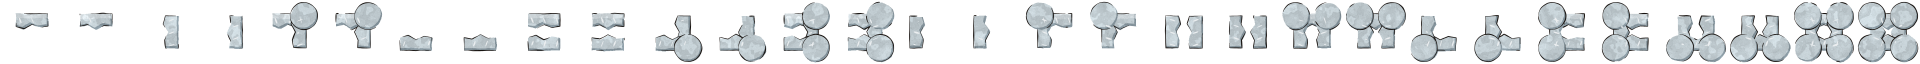
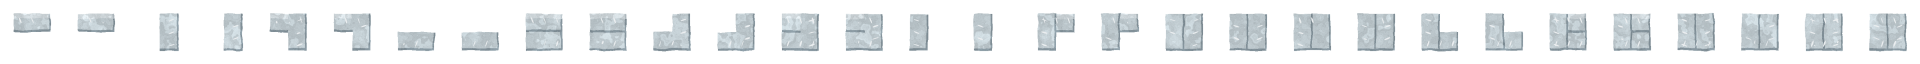
fix(sky): frost as one crust along the hull, proud of the edge
The sheet holds only the rime's paint; the shader cuts its scalloped
inner edge along the whole hull, stands it proud of the wall, rounds
the outer corners, fills the inner ones and inks its edges, as the pick.

Changed region(s): [[0.0, 0.0312, 1.0, 0.9688], [0.0, 0.2812, 0.0938, 0.5625], [0.2812, 0.1875, 0.3438, 0.25]]

diff --git a/tools/anime-art/subjects/stretches.js b/tools/anime-art/subjects/stretches.js
@@ -184,12 +184,11 @@ function cassette(a) {
 }
 
 // ---------- frost on the hull: a tile a wall cell, by the sides of it facing space ----------
-// The sheet: FROST_SLOTS tiles of 8 px in slots FROST_SLOT wide, 4 px clear round each for the corners drawn past it; slot 2 × (open − 1) + parity, the parity (x + y) % 2
-// of the cell, so the scallops along any edge alternate. The game reads it as FrostView does: keep both in step.
-const FROST_SLOT = 16, FROST_CLEAR = 4, FROST_SLOTS = 30;
+// The sheet: FROST_SLOTS tiles of 8 px in slots FROST_SLOT wide, 4 px clear round each; slot 2 × (open − 1) + parity, the parity (x + y) % 2
+// of the cell, so the needles along any edge alternate. Only the rime's paint, deeper than it ever reaches and with no line: FrostView
+// cuts its scalloped inner edge and inks it along the whole hull, so no cell shows a seam. The game reads it as FrostView does: keep both in step.
+const FROST_SLOT = 16, FROST_CLEAR = 4, FROST_SLOTS = 30, FROST_PAINTED = 4;
 const UP = 1, RIGHT = 2, DOWN = 4, LEFT = 8;
-// The band's inner edge, how deep at every 2 px along a side: its ends alike so tiles meet, its middle each parity's own.
-const SCALLOPS = [[2.6, 3.2, 2.1, 2.9, 2.6], [2.6, 2.2, 3.4, 2.4, 2.6]];
 /** A point at s along side `side` of the cell, d in from its edge. */
 const sideAt = (side, s, d) => (side === UP ? [s, d] : side === RIGHT ? [8 - d, s] : side === DOWN ? [s, 8 - d] : [d, s]);
 
@@ -198,17 +197,10 @@ function frostTile(a, ox, oy, open, parity) {
   const { band } = window.DebrisKit;
   for (const side of [UP, RIGHT, DOWN, LEFT]) {
     if (!(open & side)) continue;
-    const out = [], inn = [];
-    for (let k = 0; k <= 4; k++) {
-      const s = Math.min(8.01, Math.max(-0.01, k * 2));
-      out.push(...at(side, s, -0.6));
-      inn.unshift(...at(side, s, SCALLOPS[parity][k]));
-    }
-    a.shape(P(out.concat(inn)), RIME, { outer: false, shade: 0.7, lite: side === UP ? band(ox - 1, oy - 1, ox + 9, oy + 0.6) : undefined });
+    const ends = [-0.6, 8.6].map((s) => [at(side, s, -0.6), at(side, s, FROST_PAINTED)]);
+    a.shape(P([...ends[0][0], ...ends[1][0], ...ends[1][1], ...ends[0][1]]), RIME,
+      { outer: false, edge: false, shade: 0.7, lite: side === UP ? band(ox - 1, oy - 1, ox + 9, oy + 0.6) : undefined });
   }
-  // The outer corners frost first and thickest.
-  for (const [s1, s2, cx, cy] of [[UP, RIGHT, 8, 0], [RIGHT, DOWN, 8, 8], [DOWN, LEFT, 0, 8], [LEFT, UP, 0, 0]])
-    if ((open & s1) && (open & s2)) a.shape(ell(ox + cx, oy + cy, 3.4, 3.4), RIME, { outer: false, shade: 0.6 });
   // Needles of rime from the edge in.
   for (const side of [UP, RIGHT, DOWN, LEFT]) {
     if (!(open & side)) continue;

diff --git a/game/features/sky/FrostView.cs b/game/features/sky/FrostView.cs
@@ -19,6 +19,8 @@ public partial class FrostView : Node2D
     private const int Cell = ShipCamera.Cell;
     /// <summary>The sheet's tiles (tools/anime-art/subjects/stretches.js): slots this wide, a tile this far in, this many of them.</summary>
     private const int Slot = 16, Clear = 4, Slots = 30;
+    /// <summary>How far a cell's quad reaches past it, in pixels of the world: room for the rime standing proud of the wall.</summary>
+    private const float Margin = 2;
 
     private static readonly string Declarations = System.FormattableString.Invariant($$"""
 
@@ -37,10 +39,60 @@ public partial class FrostView : Node2D
             return fract(sin(n * 12.9898) * 43758.5453);
         }
 
-        // Whether a point `depth` in from an edge is under a band whose turn came at `delay`: softened over a third of a pixel.
-        float frost_band(float depth, float delay) {
-            float reach = {{Frost.Deepest:0.0###}} * frost_amount(delay);
-            return reach <= 0.0 ? 0.0 : 1.0 - smoothstep(reach - 0.3, reach, depth);
+        // Between least and most at `along` on the hull, a point each few pixels: the same in every cell it crosses, so an edge runs on unbroken.
+        float frost_scallop(float along, float seed, float least, float most) {
+            float k = along / {{Frost.Scallop:0.0###}};
+            return mix(least, most, mix(frost_hash(floor(k) + seed), frost_hash(floor(k) + 1.0 + seed), fract(k)));
+        }
+
+        // How far in from side i (up, right, down, left) a point of its cell lies; and where along the hull that side's band is.
+        float frost_depth(vec2 local, int i) {
+            return i == 0 ? local.y : (i == 1 ? {{Cell}}.0 - local.x : (i == 2 ? {{Cell}}.0 - local.y : local.x));
+        }
+
+        float frost_along(vec2 spot, int i) {
+            return (i == 0 || i == 2) ? spot.x : spot.y;
+        }
+
+        // How much of side i's band is there at `along`: each scallop a little apart in its turn, as the pick's mask; all of it when whole.
+        float frost_part(float along, int i, float delay, bool whole) {
+            return whole ? 1.0 : frost_amount(delay + 0.04 * frost_hash(floor(along / {{Frost.Scallop:0.0###}}) + float(i) * 101.0));
+        }
+
+        // How far inside the rime's edge a point of a cell lies, negative outside: its bands from the open sides, standing proud of
+        // them; its outer corners rounded; its inner corners filled where the bands of the two walls turn.
+        float frost_inside(vec2 local, vec2 spot, int sides, int hollows, float delay, bool whole) {
+            float inside = -9.0;
+            bool in_cell = all(greaterThanEqual(local, vec2(0.0))) && all(lessThanEqual(local, vec2({{Cell}}.0)));
+            for (int i = 0; i < 4; i++) {
+                if ((sides & (1 << i)) == 0) continue;
+                float depth = frost_depth(local, i), across = (i == 0 || i == 2) ? local.x : local.y;
+                if (across < 0.0 || across > {{Cell}}.0 || depth > {{Cell}}.0) continue;
+                float along = frost_along(spot, i), part = frost_part(along, i, delay, whole);
+                if (part <= 0.0) continue;
+                float reach = frost_scallop(along, float(i) * 101.0, {{Frost.Shallowest:0.0###}}, {{Frost.Deepest:0.0###}});
+                float proud = frost_scallop(along, float(i) * 101.0 + 53.0, {{Frost.ProudLeast:0.0###}}, {{Frost.ProudMost:0.0###}});
+                inside = max(inside, min(reach * part - depth, proud * part + depth));
+            }
+            float corner_amount = whole ? 1.0 : frost_amount(delay);
+            for (int i = 0; i < 4; i++) {
+                int j = (i + 1) % 4, pair = (1 << i) | (1 << j);
+                vec2 corner = i == 0 ? vec2({{Cell}}.0, 0.0) : (i == 1 ? vec2({{Cell}}.0) : (i == 2 ? vec2(0.0, {{Cell}}.0) : vec2(0.0)));
+                if ((sides & pair) == pair && corner_amount > 0.0) {
+                    float away = distance(local, corner);
+                    // The outer corners first and thickest; past both edges, the crust rounded round them.
+                    if (in_cell) inside = max(inside, {{Frost.Corner:0.0###}} * corner_amount - away);
+                    else if (frost_depth(local, i) < 0.0 && frost_depth(local, j) < 0.0)
+                        inside = max(inside, {{(Frost.ProudLeast + Frost.ProudMost) / 2:0.0###}} * corner_amount - away);
+                }
+                if ((hollows & (1 << i)) != 0 && in_cell) {
+                    float a = frost_along(spot, i), b = frost_along(spot, j);
+                    float ra = frost_scallop(a, float(i) * 101.0, {{Frost.Shallowest:0.0###}}, {{Frost.Deepest:0.0###}}) * frost_part(a, i, delay, whole);
+                    float rb = frost_scallop(b, float(j) * 101.0, {{Frost.Shallowest:0.0###}}, {{Frost.Deepest:0.0###}}) * frost_part(b, j, delay, whole);
+                    if (ra > 0.0 && rb > 0.0) inside = max(inside, min(ra - frost_depth(local, i), rb - frost_depth(local, j)));
+                }
+            }
+            return inside;
         }
         """);
 
@@ -52,35 +104,32 @@ public partial class FrostView : Node2D
         }
         """;
 
-    // A quad's UV carries its cell: x its corner's 0 or 1 and twice its sides open, y its corner's and twice its turn in hundredths.
+    // A quad's UV carries its cell: x four times its sides and inner corners, plus one and its corner's share of the cell; y the same
+    // with its turn in hundredths. A quad reaches Margin past its cell, so a share runs a little under 0 and over 1.
     private static readonly string Paint = System.FormattableString.Invariant($$"""
             {
-                float sides_at = floor(UV.x * 0.5), turn_at = floor(UV.y * 0.5);
-                int sides = int(sides_at);
+                float code_at = floor(UV.x * 0.25), turn_at = floor(UV.y * 0.25);
+                int code = int(code_at), sides = code & 15, hollows = code >> {{Frost.HollowShift}};
                 float delay = turn_at / 100.0;
-                vec2 local = vec2(UV.x - sides_at * 2.0, UV.y - turn_at * 2.0) * {{Cell}}.0;
+                vec2 local = vec2(UV.x - code_at * 4.0 - 1.0, UV.y - turn_at * 4.0 - 1.0) * {{Cell}}.0;
                 vec2 frost_cell = floor((world - local) / {{Cell}}.0 + 0.5);
-                int slot = 2 * (sides - 1) + int(mod(frost_cell.x + frost_cell.y, 2.0));
-                vec4 rime = texture(TEXTURE, vec2((float(slot) * {{Slot}}.0 + {{Clear}}.0 + local.x) / {{Slot * Slots}}.0, ({{Clear}}.0 + local.y) / {{Slot}}.0));
-                float shown = 0.0;
-                for (int i = 0; i < 4; i++) {
-                    if ((sides & (1 << i)) == 0) continue;
-                    float depth = i == 0 ? local.y : (i == 1 ? {{Cell}}.0 - local.x : (i == 2 ? {{Cell}}.0 - local.y : local.x));
-                    float along = (i == 0 || i == 2) ? world.x : world.y;
-                    // Each four pixels along the hull a little apart in its turn, as the pick's mask.
-                    shown = max(shown, frost_band(depth, delay + 0.04 * frost_hash(floor(along / 4.0) + float(i) * 101.0)));
-                }
-                // Its outer corners first and thickest.
-                for (int i = 0; i < 4; i++) {
-                    int pair = (1 << i) | (1 << ((i + 1) % 4));
-                    if ((sides & pair) != pair) continue;
-                    vec2 corner = i == 0 ? vec2({{Cell}}.0, 0.0) : (i == 1 ? vec2({{Cell}}.0) : (i == 2 ? vec2(0.0, {{Cell}}.0) : vec2(0.0)));
-                    shown = max(shown, frost_band(distance(local, corner), delay));
-                }
-                // Where it has melted, the hull wet a while; where it shows, darkening as it melts.
-                vec3 thawed = mix(rime.rgb, vec3(40.0, 62.0, 80.0) / 255.0, 0.35 * frost_dark);
+                // The sheet holds only the rime's paint, read inside the cell: an inner corner's is its two walls' tile.
+                int painted = sides;
+                for (int i = 0; i < 4; i++)
+                    if ((hollows & (1 << i)) != 0) painted |= (1 << i) | (1 << ((i + 1) % 4));
+                int slot = 2 * (painted - 1) + int(mod(frost_cell.x + frost_cell.y, 2.0));
+                vec2 at = clamp(local, vec2(0.0), vec2({{Cell}}.0));
+                vec4 rime = texture(TEXTURE, vec2((float(slot) * {{Slot}}.0 + {{Clear}}.0 + at.x) / {{Slot * Slots}}.0, ({{Clear}}.0 + at.y) / {{Slot}}.0));
+                float shown = 0.0, inside = frost_inside(local, world, sides, hollows, delay, false);
+                if (inside > -0.12) shown = smoothstep(-0.12, 0.08, inside);
+                // Its edges inked all round, as a pen would.
+                float inked = 1.0 - smoothstep(0.22, 0.4, inside);
+                // Where it has melted, the hull wet a while where the rime lay, on the wall only; where it shows, darkening as it melts.
+                vec3 thawed = mix(mix(rime.rgb, vec3(40.0, 62.0, 80.0) / 255.0, 0.35 * frost_dark), vec3(26.0, 38.0, 48.0) / 255.0, 0.8 * inked);
+                float lay = 0.0;
+                if (frost_wet > 0.0 && local == at) lay = smoothstep(-0.12, 0.08, frost_inside(local, world, sides, hollows, delay, true));
                 vec4 wet = vec4(10.0, 16.0, 24.0, 255.0) / 255.0;
-                COLOR = frost_tint * mix(vec4(wet.rgb, rime.a * frost_wet), vec4(thawed, rime.a), shown);
+                COLOR = frost_tint * mix(vec4(wet.rgb, frost_wet * lay), vec4(thawed, 1.0), shown);
             }
         """);
 
@@ -151,7 +200,7 @@ public partial class FrostView : Node2D
             if ((change.Layers & (GridLayers.Structure | GridLayers.Back)) != 0) _hull.Changed(change.Cell);
     }
 
-    /// <summary>The mesh made again from the hull's cells: a quad a cell, its turn and sides in its UV (see <see cref="Paint"/>).</summary>
+    /// <summary>The mesh made again from the hull's cells: a quad a cell reaching a little past it, its turn, sides and inner corners in its UV (see <see cref="Paint"/>).</summary>
     private static readonly int[] Quad = [0, 1, 2, 0, 2, 3];
 
     private void Build()
@@ -165,12 +214,13 @@ public partial class FrostView : Node2D
         foreach (var (cell, sides) in _hull.Sides)
         {
             int x = cell % _grid.Width, y = cell / _grid.Width;
-            float u = 2 * sides, v = 2 * Mathf.Round(delays[cell] * 100);
+            float u = 4 * sides + 1, v = 4 * Mathf.Round(delays[cell] * 100) + 1;
             for (int k = 0; k < 4; k++)
             {
                 int cx = k is 1 or 2 ? 1 : 0, cy = k >= 2 ? 1 : 0;
-                vertices[i * 4 + k] = new Vector2((x + cx) * Cell, (y + cy) * Cell);
-                uvs[i * 4 + k] = new Vector2(u + cx, v + cy);
+                float px = cx == 1 ? Margin : -Margin, py = cy == 1 ? Margin : -Margin;
+                vertices[i * 4 + k] = new Vector2((x + cx) * Cell + px, (y + cy) * Cell + py);
+                uvs[i * 4 + k] = new Vector2(u + cx + px / Cell, v + cy + py / Cell);
             }
             for (int k = 0; k < 6; k++) indices[i * 6 + k] = i * 4 + Quad[k];
             i++;

diff --git a/game/features/sky/logic/Frost.cs b/game/features/sky/logic/Frost.cs
@@ -20,8 +20,17 @@ public static class Frost
     /// <summary>How much later a cell's turn comes for each cell along the hull from a corner or cold spot.</summary>
     public const float PerCell = 0.05f;
 
-    /// <summary>How deep the band reaches into its cell at its full, in pixels of the world: past the deepest scallop drawn.</summary>
-    public const float Deepest = 3.8f;
+    /// <summary>
+    /// How deep the band reaches into its cell at its full, in pixels of the world: its inner edge scalloped between these, a point
+    /// each <see cref="Scallop"/> pixels along the hull, as the pick's; an outer corner's disc this wide.
+    /// </summary>
+    public const float Shallowest = 2.0f, Deepest = 3.4f, Scallop = 4, Corner = 3.4f;
+
+    /// <summary>How far the rime stands proud of the wall's edge, out into space, scalloped between these as its inner edge is: a crust, not a stain.</summary>
+    public const float ProudLeast = 0.5f, ProudMost = 1.4f;
+
+    /// <summary>Where a hull cell's inner corners (<see cref="HollowsOf"/>) sit above its sides in what <see cref="HullCells"/> keeps.</summary>
+    public const int HollowShift = 4;
 
     /// <summary>One cell in about this many is a cold spot frost takes early, its turn <see cref="ColdFrom"/> and a little more.</summary>
     public const int ColdEvery = 29;
@@ -42,6 +51,26 @@ public static class Frost
         if (y == height - 1 || space(cell + width)) sides |= Down;
         if (x == 0 || space(cell - 1)) sides |= Left;
         return sides;
+    }
+
+    /// <summary>
+    /// The inner corners of the wall cell (<paramref name="x"/>, <paramref name="y"/>): each where its two sides are walled but the cell
+    /// between them, diagonal, is space, so the bands along both walls turn there. A bit each, from 0 at the top right clockwise, as a
+    /// pair of sides counts them in the shader: up and right, right and down, down and left, left and up.
+    /// </summary>
+    public static int HollowsOf(int x, int y, int width, int height, Func<int, bool> wall, Func<int, bool> space)
+    {
+        int cell = y * width + x;
+        if (!wall(cell) || x == 0 || y == 0 || x == width - 1 || y == height - 1) return 0;
+        bool Walled(int at) => !space(at);
+        int hollows = 0;
+        (int Dx, int Dy)[] corners = [(1, -1), (1, 1), (-1, 1), (-1, -1)];
+        for (int i = 0; i < 4; i++)
+        {
+            var (dx, dy) = corners[i];
+            if (Walled(cell + dx) && Walled(cell + dy * width) && space(cell + dy * width + dx)) hollows |= 1 << i;
+        }
+        return hollows;
     }
 
     /// <summary>Whether <paramref name="sides"/> meet at an outer corner: two that turn round it.</summary>

diff --git a/game/features/sky/logic/HullCells.cs b/game/features/sky/logic/HullCells.cs
@@ -11,7 +11,7 @@ public sealed class HullCells(int width, int height, Func<int, bool> wall, Func<
 {
     private readonly Dictionary<int, int> _sides = new();
 
-    /// <summary>Each wall cell facing space, by its sides facing it.</summary>
+    /// <summary>Each wall cell facing space or turning an inner corner, by its sides facing it and its inner corners above them (<see cref="Frost.HollowShift"/>).</summary>
     public IReadOnlyDictionary<int, int> Sides => _sides;
 
     /// <summary>Bumped whenever a cell joins, leaves or changes its sides.</summary>
@@ -24,20 +24,19 @@ public sealed class HullCells(int width, int height, Func<int, bool> wall, Func<
             for (int x = Math.Max(0, left); x <= Math.Min(width - 1, right); x++) Look(x, y);
     }
 
-    /// <summary>A cell that changed: it and its four neighbours, whose sides it may open or close.</summary>
+    /// <summary>A cell that changed: it and its eight neighbours, whose sides or inner corners it may open or close.</summary>
     public void Changed(int cell)
     {
         int x = cell % width, y = cell / width;
-        Look(x, y);
-        if (y > 0) Look(x, y - 1);
-        if (x < width - 1) Look(x + 1, y);
-        if (y < height - 1) Look(x, y + 1);
-        if (x > 0) Look(x - 1, y);
+        for (int dy = -1; dy <= 1; dy++)
+            for (int dx = -1; dx <= 1; dx++)
+                if (x + dx >= 0 && x + dx < width && y + dy >= 0 && y + dy < height) Look(x + dx, y + dy);
     }
 
     private void Look(int x, int y)
     {
-        int cell = y * width + x, sides = Frost.SidesOf(x, y, width, height, wall, space);
+        int cell = y * width + x;
+        int sides = Frost.SidesOf(x, y, width, height, wall, space) | Frost.HollowsOf(x, y, width, height, wall, space) << Frost.HollowShift;
         _sides.TryGetValue(cell, out int was);
         if (sides == was) return;
         if (sides == 0) _sides.Remove(cell);

diff --git a/game.tests/StretchLooksTests.cs b/game.tests/StretchLooksTests.cs
@@ -161,6 +161,27 @@ public class StretchLooksTests
     }
 
     [Fact]
+    public void AWallUnderAPillarsFootTurnsTheFrostRoundItsInnerCorners()
+    {
+        // A 5 by 4 grid: a roof on row 2, a pillar on (2, 1), space above the roof and round the pillar, a room under the roof.
+        const int width = 5, height = 4;
+        var wall = new bool[width * height];
+        for (int x = 0; x < width; x++) wall[2 * width + x] = true;
+        wall[width + 2] = true;
+        bool Space(int c) => !wall[c] && c < 2 * width;
+        int Hollows(int x, int y) => Frost.HollowsOf(x, y, width, height, c => wall[c], Space);
+        // Under the pillar: space up-left (bit 3, left and up) and up-right (bit 0, up and right).
+        Assert.Equal(1 << 3 | 1 << 0, Hollows(2, 2));
+        Assert.Equal(0, Hollows(1, 2));
+        Assert.Equal(0, Hollows(2, 1));
+        Assert.Equal(0, Frost.SidesOf(2, 2, width, height, c => wall[c], Space));
+        // Kept with the hull's cells, above its sides.
+        var hull = new HullCells(width, height, c => wall[c], Space);
+        hull.Scan(0, 0, width - 1, height - 1);
+        Assert.Equal((1 << 3 | 1 << 0) << Frost.HollowShift, hull.Sides[2 * width + 2]);
+    }
+
+    [Fact]
     public void FrostReachesTheOuterCornersFirstAndEveryCellByTheLatest()
     {
         // A long flat roof, its two ends turning down: corners at both ends.
